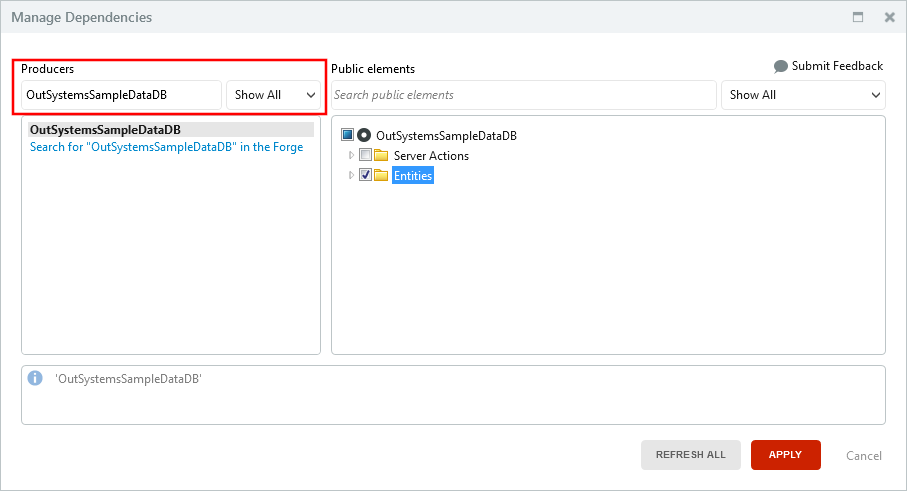
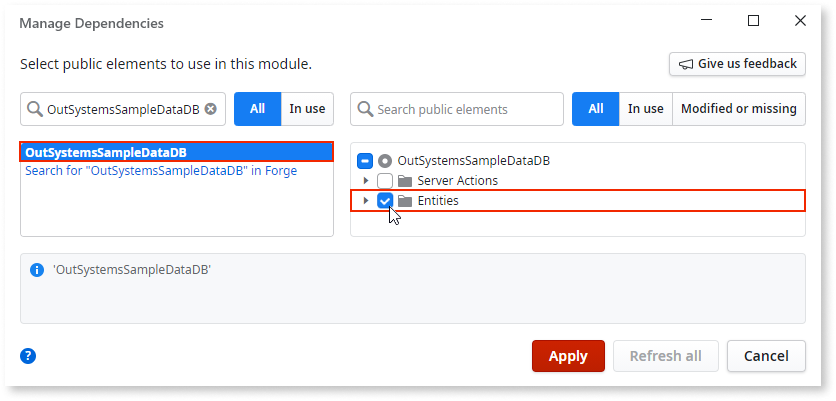
[TK-4542] New material about sample data

diff --git a/src/develop/ui/screen-templates-create/sample-data.md b/src/develop/ui/screen-templates-create/sample-data.md
@@ -4,65 +4,69 @@ summary: Screen Templates contain sample data, which you can manage in a back-of
 
 # Sample data
 
-Sample Data consists of example records from domains related to several industries. Screen Templates use it to create instances of Screens.
+Sample data consists of example records from domains related to several industries. **Screen Templates** use this sample data to create screen instances which are useful to create a prototype, a proof of concept, or to follow a tutorial that requires it. 
 
 ## Referencing sample data in apps
 
-Sample data is useful when you need to create a prototype, proof of concept, or when you're following a tutorial that requires it. Reference the sample data by including the OutSystemsSampleDataDB module. Here is how you can do it:
+To reference sample data, include the **OutSystemsSampleDataDB** module in your app, as described below:
 
-1. Click the manage dependencies icon in the Service Studio toolbar, or press CTRL+Q. **Manage Dependencies** dialog opens.
+1. Click the manage dependencies icon in the Service Studio toolbar (or press CTRL+Q) to open the **Manage Dependencies** window.
 
     ![Manage dependencies icon](images/manage-dependencies-ss.png)
 
-2. Enter OutSystemsSampleDataDB to search the available producer modules. Select **OutSystemsSampleDataDB** in the results, and in the right pane select all **Entities** of the module.
+2. Search for **OutSystemsSampleDataDB** and select it in the results pane. In the right pane select all **Entities** of the module, then click **Apply** to confirm and close the **Manage Dependencies** window.
 
     ![Manage dependencies adding module](images/manage-dependencies-sample-data-module-ss.png)
 
-3. Click **Apply** to confirm and close. The Entities are now available in the **Data** tab of Service Studio.
+The Entities are now available in the **Data** tab of **Service Studio**.
 
 <div class="info" markdown="1">
 
-If there are no results when you search for OutSystemsSampleDataDB, that could mean that the [OutSystems Sample Data](https://www.outsystems.com/forge/component-overview/4145/outsystems-sample-data) component, usually installed with Platform Server, isn't present in the environment. Try installing the component manually.
+If your search for **OutSystemsSampleDataDB** gives no results, that may mean that the [OutSystems Sample Data](https://www.outsystems.com/forge/component-overview/4145/outsystems-sample-data) component, which is usually installed with **Platform Server**, is not present in your environment. Click the **Forge** tab in Service Studio and install the component manually.
 
 </div>
 
-## Managing OutSystems Sample Data
+## Managing OutSystems sample data
 
-The OutSystemsSampleDataDB module, that comes with the OutSystems UI component, provides a collection of public APIs that lets you:
+The **OutSystemsSampleDataDB** module provides a collection of public APIs that let you export original data, import your own sample data, and reset the sample data.
 
-* Export original data and Import your sample data
-* Reset the sample data
+Sample data entities are public, so you can create a custom back office.
 
-### View the Sample Data
+### Import your sample data
 
-Sample Data entities are public, so you can create a custom back-office.
+You may create entities to suit your own business requirements by changing the sample data used in your **Screen Templates**.
 
-### Import your Sample Data
-
-Follow these steps to import your own data for use in Screen Templates.
-
-1. Reference **OutSystemsSampleDataDB**.
-   
-1. Use the **DownloadOriginalData** Server Action from **Logic** > **Server Actions** > **OutSystemsSampleDataDB** > **Export** to save the original source files in a zip archive. You need to create a logic to download a file, by adding a **Download** element at the end of the flow.  
+1. Create download logic by referencing **DownloadOriginalData**  and adding it to a server action.
+1. In the **Logic** tab expand **Server Actions**  and then expand **OutSystemsSampleDataDB**.   
+1. Expand **Export** and **DownloadOriginalData** Server Action from **Logic** > **Server Actions** > **OutSystemsSampleDataDB** > **Export** to save the original source files in a zip archive. You need to create a logic flow to download a file by adding a **Download** element at the end of the flow.  
 
     ![A flow to export sample data](images/sample-data-export-ss.png)
 
 1. Edit the source files in the zip archive with your own data.
 
-1. Use the **Import** Server Action from **Logic** > **Server Actions** > **OutSystemsSampleDataDB** > **Import** to upload the updated file and replace the current data. You need to create logic for the import, similar to the one you created for export.
+1. Use the **Import** Server Action from **Logic** > **Server Actions** > **OutSystemsSampleDataDB** > **Import** to upload the updated file and replace the current data. You need to create logic for the import, similar to what was created for the export.
 
-### Reset the Sample Data
+### Reset the sample data
 
-To reset the sample data:
+Sample data is automatically created when the application is published. However, you may need to reset it.
 
-1. Access `http://<yourserver>/ServiceCenter/`
-1. Go to the **Factory** > **Modules** tab.
-1. Search for **OutSystemsSampleDataDB**.
-1. Go to the **Timers** tab in the module details.
-1. Select the **Reset_SampleData** timer and click **Run Now**.
+<div class="info" markdown="1">
 
-If any app extends the provided entities, the Foreign Key constraint won't let the timer run successfully. To overcome this, delete such references (records) first.
+If any app extends the provided entities, the **Foreign Key** constraint will not let the timer run successfully. In this case delete such references (records) before resetting the sample data.
 
-## Custom data model and records
+</div>
 
-You can create your own Entities as the source of data in your Screen Templates. This can be more suitable for your business requirements.
+1. Access `http://<yourserver>/ServiceCenter/` and, from the **Factory>Application** area, search for **OutSystems Sample Data** and click it.  
+    ![Search for OutSystems Sample App](images/search-for-sample-data-app-sc.png)
+1. Click **OutSystemsSampleDataDB** in the **Application OutSystems Sample Data** window.
+   ![Search for OutSystems Sample App](images/application-outsystems-sample-data-sc.png) 
+1. In the **Timers** tab in the module details window, select **Reset_SampleData**, and then click **Run Now**.
+    ![Reset sample data timer](images/reset-sample-data-timer-sc.png)
+
+Other timers that may be reset in the same way are described in the list below:
+
+* **Bootstrap_SampleData**: Runs when the module is published, bootstraping the sample data for all entities.
+* **DailyRefresh**: Runs the bootstrap action to make sure sample data is available.
+* **Delete_SampleData**: Deletes data from all sample data entities.
+* **Reset_SampleData**: Resets data from all sample data entities by deleting sample data and then bootstrapping it.
+* **ResetDates**: Resets dates only, done periodically to ensure, for instance, that data in charts are displayed properly.
